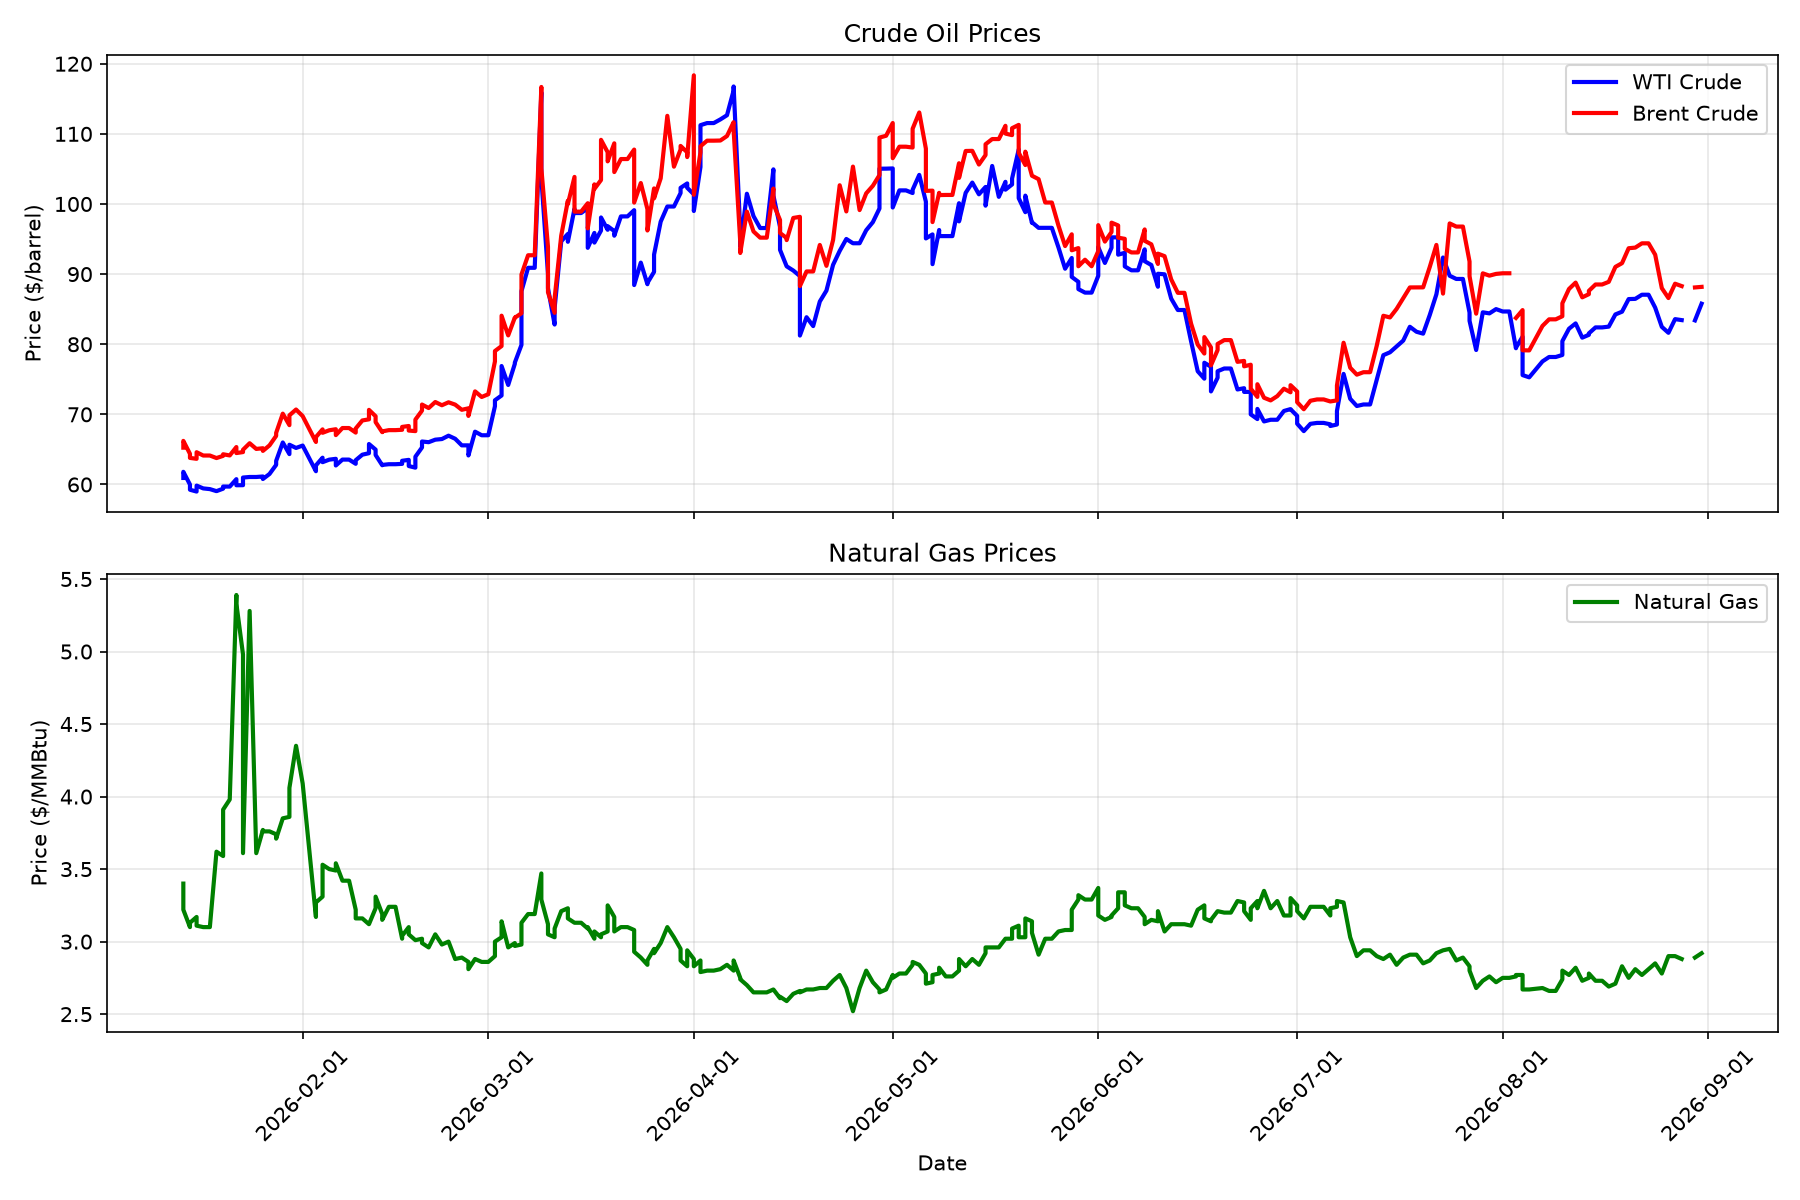
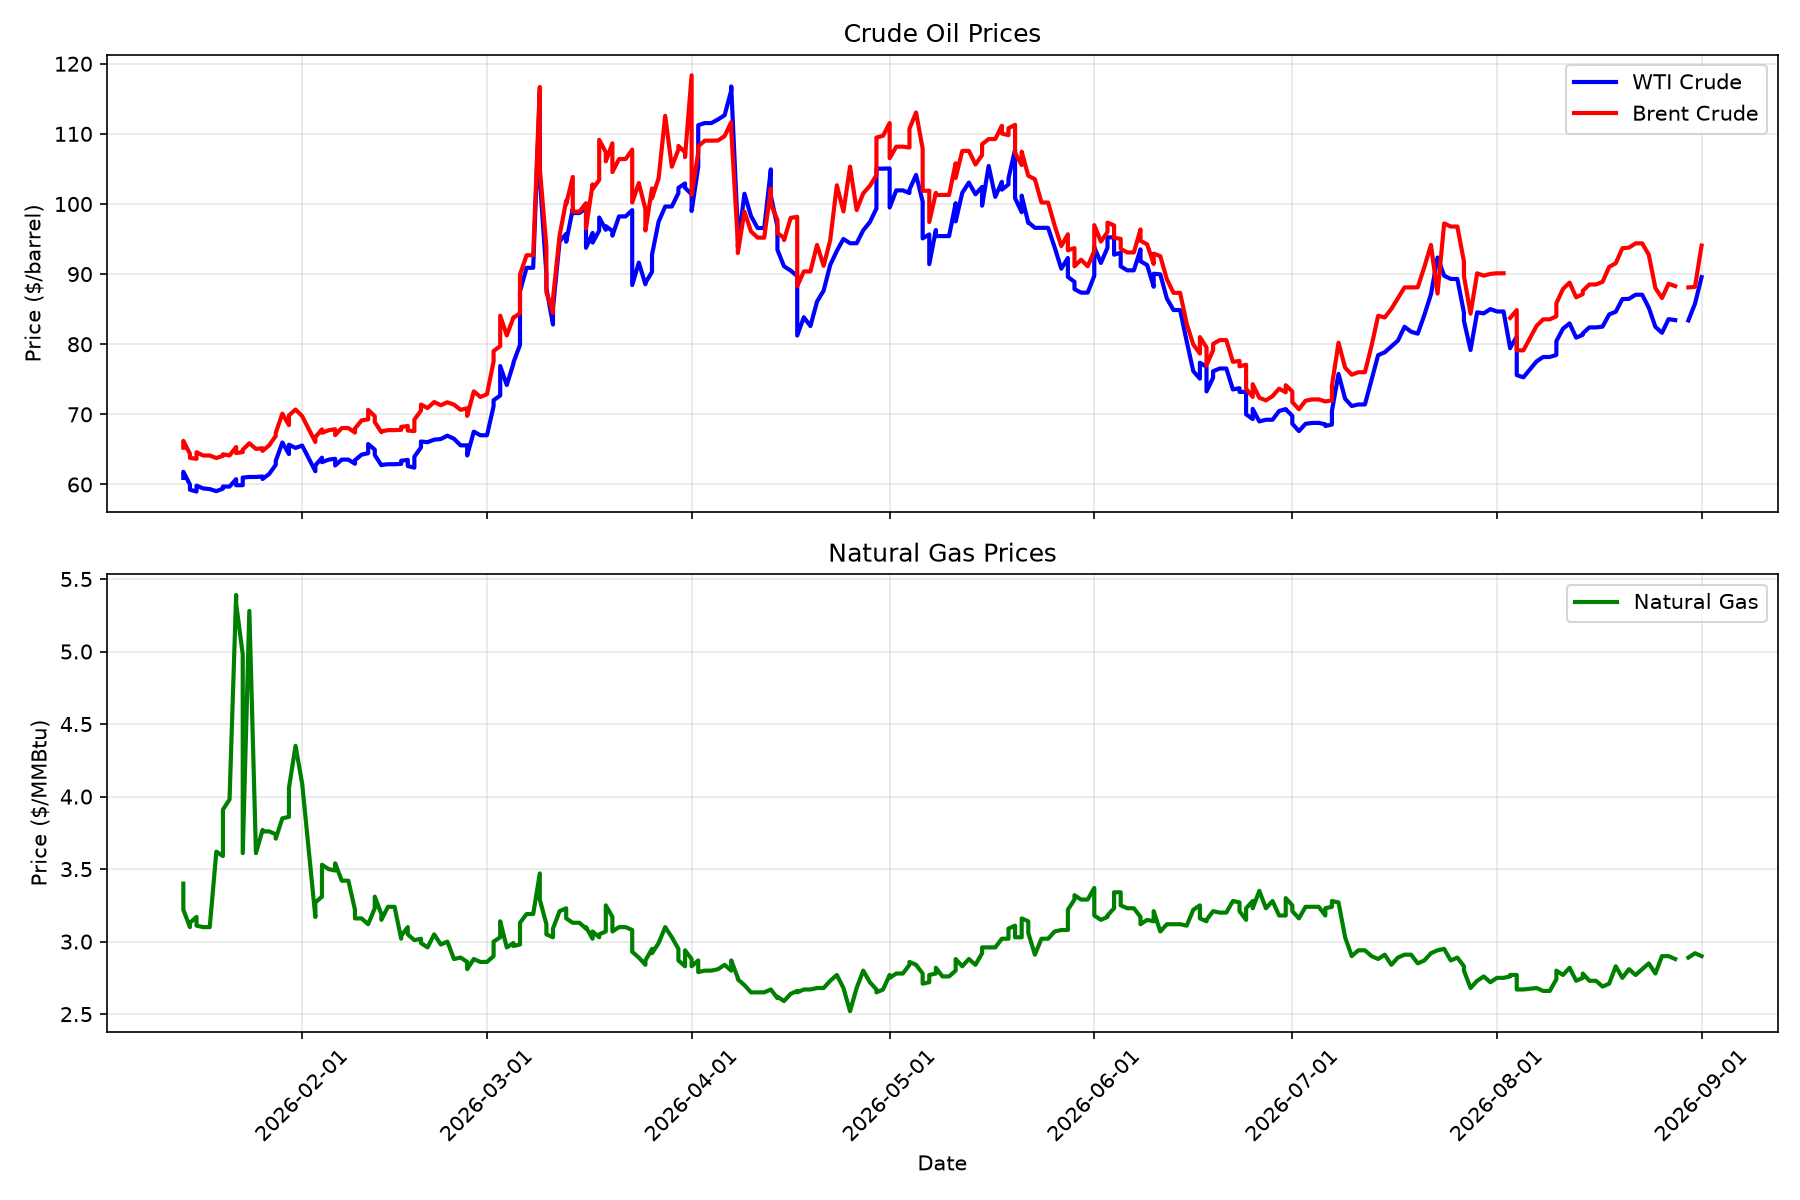
Daily price update: 2026-09-01

diff --git a/README.md b/README.md
@@ -2,29 +2,29 @@
 
 Automated daily tracking of chemical commodity prices and chemical company stocks.
 
-## Latest Prices (Updated: 2026-08-31)
+## Latest Prices (Updated: 2026-09-01)
 
 ### Energy Commodities
 
 | Commodity | Price | Change (24h) | Unit |
 |-----------|-------|--------------|------|
-| WTI Crude Oil | $85.78 | +0.00 (+0.00%) | $/barrel |
-| Brent Crude Oil | $88.18 | +0.00 (+0.00%) | $/barrel |
-| Natural Gas | $2.92 | +0.00 (+0.00%) | $/MMBtu |
-| Heating Oil | $4.42 | +0.00 (+0.00%) | $/gallon |
+| WTI Crude Oil | $89.57 | +3.81 (+4.44%) | $/barrel |
+| Brent Crude Oil | $94.07 | +3.58 (+3.96%) | $/barrel |
+| Natural Gas | $2.90 | -0.03 (-1.09%) | $/MMBtu |
+| Heating Oil | $4.66 | +0.17 (+3.72%) | $/gallon |
 
 ### Chemical Company Stocks
 
 | Company | Ticker | Price | Change (24h) |
 |---------|--------|-------|--------------|
-| Dow Inc. | DOW | $30.31 | +0.00 (+0.00%) |
-| LyondellBasell | LYB | $64.77 | +0.00 (+0.00%) |
-| DuPont | DD | $134.32 | +0.00 (+0.00%) |
-| Air Products | APD | $308.68 | +0.00 (+0.00%) |
-| Linde | LIN | $489.30 | +0.00 (+0.00%) |
-| Eastman Chemical | EMN | $72.25 | +0.00 (+0.00%) |
-| Celanese | CE | $45.36 | +0.00 (+0.00%) |
-| Huntsman | HUN | $9.52 | +0.00 (+0.00%) |
+| Dow Inc. | DOW | $30.24 | -0.28 (-0.93%) |
+| LyondellBasell | LYB | $64.77 | -0.31 (-0.48%) |
+| DuPont | DD | $132.29 | -2.30 (-1.71%) |
+| Air Products | APD | $305.22 | -4.24 (-1.37%) |
+| Linde | LIN | $483.45 | -6.13 (-1.25%) |
+| Eastman Chemical | EMN | $70.66 | -1.78 (-2.46%) |
+| Celanese | CE | $44.47 | -1.01 (-2.22%) |
+| Huntsman | HUN | $9.48 | -0.10 (-1.10%) |
 
 ## Data Sources
 

diff --git a/logs/update_log.md b/logs/update_log.md
@@ -351,3 +351,4 @@ Daily updates to the chemical engineering data repository.
 - **2026-08-29 17:26:31**: Updated 4 energy prices, 8 stocks, 0 FRED series
 - **2026-08-30 17:50:02**: Updated 4 energy prices, 8 stocks, 0 FRED series
 - **2026-08-31 19:44:26**: Updated 4 energy prices, 8 stocks, 0 FRED series
+- **2026-09-01 17:30:02**: Updated 4 energy prices, 8 stocks, 0 FRED series
